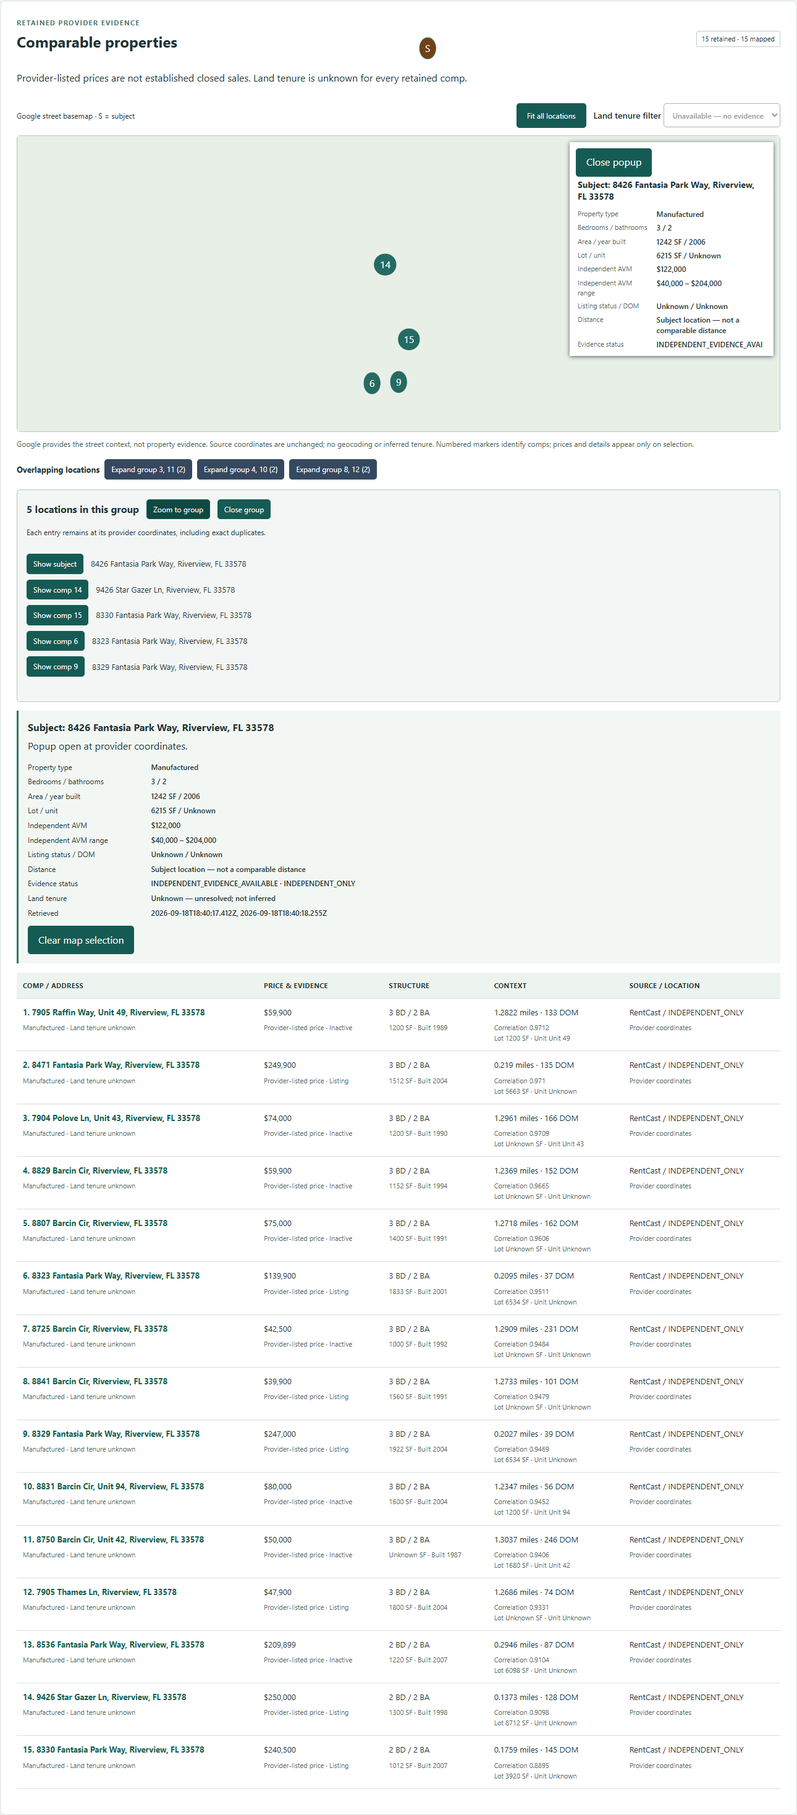
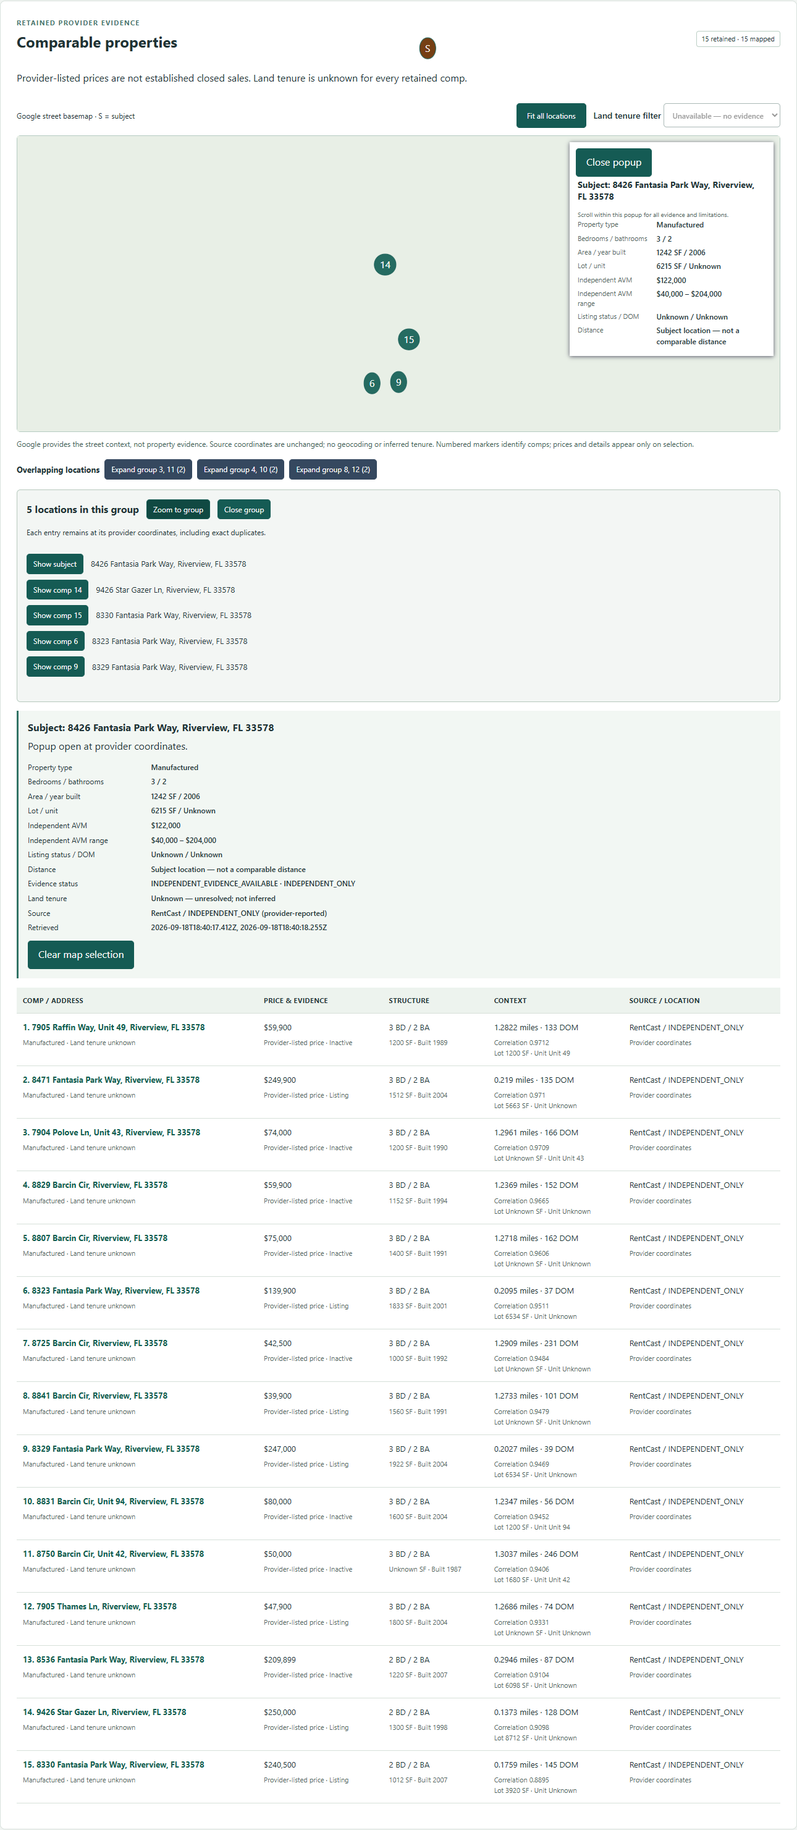
Initial Update for Web App 1

diff --git a/scripts/qa-maps.js b/scripts/qa-maps.js
@@ -26,6 +26,7 @@ async function scenario(name,{width=1366,network='mock',noTiles=false,missing=fa
     m.comps[0].address='<img src=x onerror="window.__injected=true">';
     await page.route(`${app.url}/api/fixture`,route=>route.fulfill({contentType:'application/json',body:JSON.stringify({model:m,sessionId:'qa'})}));
   }
+  if(network==='missing')await page.route(`${app.url}/api/maps/config`,route=>route.fulfill({contentType:'application/json',body:JSON.stringify({configured:false,reason:'Browser key not configured.'})}));
   try {
     await page.goto(app.url);await page.getByRole('button',{name:'Florida Portfolio / Fantasia',exact:true}).click();
     const engine=network==='mock'&&!noTiles?'STREET':'OFFLINE_FALLBACK';
@@ -38,10 +39,12 @@ async function scenario(name,{width=1366,network='mock',noTiles=false,missing=fa
       const originalPositions=await page.evaluate(()=>window.__mapTestInstances.at(-1).markers.filter(m=>!m.title.startsWith('Expand ')).map(m=>m.position));
       await page.locator('[data-comp-row="comp-2"] button').click();await page.locator('[data-map-popup="comp-2"]').waitFor();
       assert.match(await page.locator('[data-map-popup="comp-2"]').innerText(),/Days on market/);assert.match(await page.locator('[data-map-popup="comp-2"]').innerText(),/Land tenure unknown/);
+      assert.equal(await page.locator('[data-map-popup="comp-2"]').evaluate(el=>el.scrollWidth<=el.clientWidth),true,'Popup text must wrap without horizontal clipping');
       assert.equal(await page.locator('[data-comp-row="comp-2"] button').getAttribute('aria-pressed'),'true');
       await page.getByRole('button',{name:'Close popup',exact:true}).click();assert.equal(await page.locator('[data-comp-row="comp-2"] button').getAttribute('aria-pressed'),'false');
       await page.getByRole('button',{name:/^Subject: 8426/}).click();await page.locator('[data-map-popup="subject"]').waitFor();assert.match(await page.locator('[data-map-popup="subject"]').innerText(),/\$122,000/);
       await page.getByRole('button',{name:'Close popup',exact:true}).click();
+      await page.locator('[data-comp-row="comp-2"] button').click();await page.getByRole('button',{name:'Close popup',exact:true}).focus();await page.keyboard.press('Escape');assert.equal(await page.locator('[data-comp-row="comp-2"] button').getAttribute('aria-pressed'),'false');
       await page.locator('.map-overlaps button').first().click();await page.locator('.map-overlap-roster').waitFor();
       await page.locator('.map-overlap-roster li button').first().click();assert.equal(await page.locator('[data-map-popup]').count(),1);
       await page.getByRole('button',{name:'Zoom to group',exact:true}).click();
@@ -52,6 +55,7 @@ async function scenario(name,{width=1366,network='mock',noTiles=false,missing=fa
       }
       assert.equal(requests.length,1,'No repeated Maps API load on selection or rerender');
       await page.locator('#comps').screenshot({path:resolve(`${root}/${name}.png`)});
+      await page.locator('.comp-map').screenshot({path:resolve(`${root}/${name}-popup.png`)});
       // A real browser offline transition must preserve selected evidence and all comps.
       await page.locator('[data-comp-row="comp-2"] button').click();await context.setOffline(true);
       await page.locator('[data-map-engine="OFFLINE_FALLBACK"]').waitFor();await page.locator('[data-map-popup="comp-2"]').waitFor();
@@ -63,8 +67,10 @@ async function scenario(name,{width=1366,network='mock',noTiles=false,missing=fa
       await page.locator('[data-comp-row="comp-2"] button').click();await page.locator('[data-map-popup="comp-2"]').waitFor();
       assert.match(await page.locator('[data-map-popup="comp-2"]').innerText(),/Provider status/);
       await page.locator('.comp-pin').filter({hasText:/^3$/}).focus();await page.keyboard.press('Enter');await page.locator('[data-map-popup="comp-3"]').waitFor();
+      assert.equal(await page.locator('[data-map-popup="comp-3"]').evaluate(el=>el.scrollWidth<=el.clientWidth),true);
       assert.equal(await page.locator('[data-comp-row="comp-3"] button').getAttribute('aria-pressed'),'true');
       await page.locator('#comps').screenshot({path:resolve(`${root}/${name}.png`)});
+      await page.locator('.comp-map').screenshot({path:resolve(`${root}/${name}-popup.png`)});
     }
     assert.equal(await page.locator('.price-label').count(),0,'No persistent price-label clutter');
     assert.equal(await page.evaluate(()=>document.documentElement.scrollWidth<=window.innerWidth),true);
@@ -78,5 +84,6 @@ try {
   await scenario('google-missing-duplicates',{width:390,missing:true});
   await scenario('offline-network',{network:'blocked'});await scenario('offline-auth-narrow',{width:390,network:'auth'});
   await scenario('offline-tile-timeout',{noTiles:true});
+  await scenario('offline-missing-key',{network:'missing',width:390});
   await writeJson('data/validation/map-update-qa.json',{at:new Date().toISOString(),results,preservation:await preservation(),liveProviderCalls:0,liveBasemapVerified:false,note:'Google contract-double tests plus real Leaflet fallback. Live Google map requires an authorized browser key; no Google tiles or RentCast calls consumed.'});
 }finally{await instance.close();await app.close();}

diff --git a/apps/web/src/features/comps-map/map.css b/apps/web/src/features/comps-map/map.css
@@ -1,1 +1,1 @@
-#comps .map-note{font-size:12px;color:#415d55;margin:10px 0}#comps .comp-map{height:480px}#comps .map-toolbar [role=status]{flex:1;min-width:180px}#comps .map-evidence-popup{font:12px/1.45 'Segoe UI',Arial,sans-serif;color:#203335;max-width:310px;max-height:280px;overflow-y:auto;overflow-wrap:anywhere;margin:0;padding:3px}#comps .map-evidence-popup h3{font-size:14px;line-height:1.4;margin:0 0 10px}#comps .map-evidence-popup dl{display:grid;grid-template-columns:minmax(80px,1fr) minmax(0,1.5fr);gap:5px 10px;margin:0}#comps .map-evidence-popup dt{text-transform:none;color:#53675e;font-size:11px}#comps .map-evidence-popup dd{font-weight:500;margin:0}#comps .map-evidence-popup p{font-size:11px;border-top:1px solid #cbd7cf;padding-top:8px;margin:10px 0 0}#comps .map-selection-facts{grid-template-columns:minmax(110px,1fr) minmax(0,3fr);font-size:12px;gap:5px 16px;max-width:750px;overflow-wrap:anywhere}#comps .map-selection-facts dt{text-transform:none}#comps .map-overlaps{display:flex;flex-wrap:wrap;align-items:center;gap:8px;margin:16px 0}#comps .map-overlaps strong{font-size:13px}#comps .map-overlaps button{font-size:12px;padding:6px 10px;background:#35485f;border-color:#35485f}#comps .overlap-pin{display:flex;align-items:center;justify-content:center;border:3px solid white;border-radius:50%;background:#35485f;color:white;font-size:12px;font-weight:bold;box-shadow:0 1px 5px #38534a}#comps .subject-pin.selected{outline:4px solid #d69a42}#comps .map-overlap-roster{border:1px solid #b6c8bd;border-radius:6px;padding:15px;background:#f3f6f4}#comps .map-roster-heading{display:flex;align-items:center;gap:12px;flex-wrap:wrap}#comps .map-overlap-roster button{font-size:12px;padding:6px 10px}#comps .map-overlap-roster ul{list-style:none;padding:0;max-height:240px;overflow-y:auto}#comps .map-overlap-roster li{display:flex;gap:12px;align-items:center;font-size:13px;overflow-wrap:anywhere}#comps .map-overlap-roster li button{flex-shrink:0}#comps .map-overlap-roster p{font-size:12px}#comps .gm-style-iw button{min-width:30px}#comps .leaflet-popup-content{margin:14px;max-width:calc(100vw - 100px)}@media(max-width:750px){#comps .comp-map{height:400px}#comps .map-toolbar{align-items:stretch}#comps .map-toolbar [role=status]{flex-basis:100%}#comps .map-evidence-popup{max-height:225px;max-width:260px}#comps .map-selection-facts{grid-template-columns:1fr 1.4fr}#comps .map-overlap-roster li{align-items:flex-start}#comps .map-roster-heading button{flex:1}}
+#comps .map-note{font-size:12px;color:#415d55;margin:10px 0}#comps .comp-map{height:480px}#comps .map-toolbar [role=status]{flex:1;min-width:180px}#comps .map-evidence-popup{font:12px/1.45 'Segoe UI',Arial,sans-serif;color:#203335;max-width:310px;max-height:280px;overflow-y:auto;overflow-wrap:anywhere;margin:0;padding:3px}#comps .map-evidence-popup h3{font-size:14px;line-height:1.4;margin:0 0 10px}#comps .map-evidence-popup dl{display:grid;grid-template-columns:minmax(80px,1fr) minmax(0,1.5fr);gap:5px 10px;margin:0}#comps .map-evidence-popup dt{text-transform:none;color:#53675e;font-size:11px}#comps .map-evidence-popup dd{font-weight:500;margin:0;min-width:0;overflow-wrap:anywhere;white-space:normal}#comps .map-evidence-popup p{font-size:11px;border-top:1px solid #cbd7cf;padding-top:8px;margin:10px 0 0}#comps .map-selection-facts{grid-template-columns:minmax(110px,1fr) minmax(0,3fr);font-size:12px;gap:5px 16px;max-width:750px;overflow-wrap:anywhere}#comps .map-selection-facts dt{text-transform:none}#comps .map-overlaps{display:flex;flex-wrap:wrap;align-items:center;gap:8px;margin:16px 0}#comps .map-overlaps strong{font-size:13px}#comps .map-overlaps button{font-size:12px;padding:6px 10px;background:#35485f;border-color:#35485f}#comps .overlap-pin{display:flex;align-items:center;justify-content:center;border:3px solid white;border-radius:50%;background:#35485f;color:white;font-size:12px;font-weight:bold;box-shadow:0 1px 5px #38534a}#comps .subject-pin.selected{outline:4px solid #d69a42}#comps .map-overlap-roster{border:1px solid #b6c8bd;border-radius:6px;padding:15px;background:#f3f6f4}#comps .map-roster-heading{display:flex;align-items:center;gap:12px;flex-wrap:wrap}#comps .map-overlap-roster button{font-size:12px;padding:6px 10px}#comps .map-overlap-roster ul{list-style:none;padding:0;max-height:240px;overflow-y:auto}#comps .map-overlap-roster li{display:flex;gap:12px;align-items:center;font-size:13px;overflow-wrap:anywhere}#comps .map-overlap-roster li button{flex-shrink:0}#comps .map-overlap-roster p{font-size:12px}#comps .gm-style-iw button{min-width:30px}#comps .leaflet-popup-content{margin:14px;max-width:calc(100vw - 100px)}@media(max-width:750px){#comps .comp-map{height:400px}#comps .map-toolbar{align-items:stretch}#comps .map-toolbar [role=status]{flex-basis:100%}#comps .map-evidence-popup{max-height:225px;max-width:260px}#comps .map-selection-facts{grid-template-columns:1fr 1.4fr}#comps .map-overlap-roster li{align-items:flex-start}#comps .map-roster-heading button{flex:1}}

diff --git a/apps/web/src/features/comps-map/offlineMap.js b/apps/web/src/features/comps-map/offlineMap.js
@@ -4,14 +4,16 @@ import {overlapGroups,popupContent} from './mapData.js';
 
 export function offlineMap(host,entries,{onSelect,onGroups,onExpand}) {
   const located=entries.filter(e=>e.position),markers=new Map();
-  const map=L.map(host,{scrollWheelZoom:false,zoomAnimation:false,fadeAnimation:false,markerZoomAnimation:false});
+  const map=L.map(host,{scrollWheelZoom:false,zoomAnimation:false,fadeAnimation:false,markerZoomAnimation:false}).setView([located[0].position.lat,located[0].position.lng],13);
+  map.zoomControl.setPosition('bottomright');
   const points=located.map(e=>[e.position.lat,e.position.lng]);
   let selecting=false,disposed=false;
   const popup=L.popup({maxWidth:Math.min(340,host.clientWidth-48),maxHeight:260,autoPanPadding:[18,18]});
+  const labelNode=value=>{const node=document.createElement('span');node.textContent=String(value);return node;};
   const keyboard=(element,fn)=>{element.addEventListener('keydown',e=>{if(e.key==='Enter'||e.key===' '){e.preventDefault();e.stopPropagation();fn();}});};
   for(const entry of located){
     const marker=L.marker([entry.position.lat,entry.position.lng],{title:entry.title,keyboard:true,riseOnHover:true,zIndexOffset:entry.subject?800:0,
-      icon:L.divIcon({className:entry.subject?'subject-pin':'comp-pin',html:entry.label,iconSize:[entry.subject?30:27,entry.subject?30:27]})}).addTo(map);
+      icon:L.divIcon({className:entry.subject?'subject-pin':'comp-pin',html:labelNode(entry.label),iconSize:[entry.subject?30:27,entry.subject?30:27]})}).addTo(map);
     marker.on('click',()=>onSelect(entry.id));marker.getElement().setAttribute('aria-label',`Select ${entry.title}`);keyboard(marker.getElement(),()=>onSelect(entry.id));markers.set(entry.id,marker);
   }
   map.on('popupclose',()=>{if(!selecting&&!disposed)onSelect(null);});
@@ -22,7 +24,7 @@ export function offlineMap(host,entries,{onSelect,onGroups,onExpand}) {
     count=0;for(let y=Math.floor(b.getSouth()/step)*step;y<b.getNorth()&&count++<100;y+=step)L.polyline([[y,b.getWest()],[y,b.getEast()]],{color:'#bdd2d0',weight:1,interactive:false}).addTo(grid);
     const groups=overlapGroups(located,p=>map.latLngToContainerPoint([p.lat,p.lng]));
     for(const group of groups){const marker=L.marker([group.position.lat,group.position.lng],{title:`Expand ${group.members.length} overlapping locations`,keyboard:true,zIndexOffset:500,
-      icon:L.divIcon({className:'overlap-pin',html:String(group.members.length),iconSize:[34,34]})}).addTo(clusters);
+      icon:L.divIcon({className:'overlap-pin',html:labelNode(group.members.length),iconSize:[34,34]})}).addTo(clusters);
       marker.on('click',()=>onExpand(group));keyboard(marker.getElement(),()=>onExpand(group));}
     onGroups(groups);
   };

diff --git a/apps/web/src/features/comps-map/mapData.js b/apps/web/src/features/comps-map/mapData.js
@@ -11,6 +11,7 @@ export function mapEntries(model) {
       ...model.metrics.filter(m=>/Purchase|Resale|Break-Even/.test(m.label)).map(m=>[m.label,`${m.display} · ${m.status}`]),
       ['Listing status / DOM','Unknown / Unknown'],['Distance','Subject location — not a comparable distance'],
       ['Evidence status',`${model.resolutionStatus} · ${model.valuationStatus}`],['Land tenure','Unknown — unresolved; not inferred'],
+      ['Source',model.provenance.some(p=>p.source==='RentCast')?'RentCast / INDEPENDENT_ONLY (provider-reported)':'Unknown'],
       ['Retrieved',model.cache.retrievedAt.join(', ')||'Not available']]};
   return [subject,...model.comps.map(c=>({id:c.id,label:String(c.number),title:`Comp ${c.number}: ${c.address}`,address:c.address,subject:false,
     position:located(c)?{lat:c.latitude,lng:c.longitude}:null,
@@ -36,6 +37,7 @@ export function overlapGroups(entries,project,radius=32) {
 export function popupContent(entry) {
   const root=document.createElement('article');root.className='map-evidence-popup';root.dataset.mapPopup=entry.id;
   const heading=document.createElement('h3');heading.textContent=entry.title;root.append(heading);
+  const hint=document.createElement('small');hint.textContent='Scroll within this popup for all evidence and limitations.';root.append(hint);
   const list=document.createElement('dl');
   for(const [label,value] of entry.facts){const term=document.createElement('dt'),detail=document.createElement('dd');term.textContent=label;detail.textContent=value;list.append(term,detail);}
   root.append(list);const note=document.createElement('p');note.textContent=entry.subject?'Independent estimates are evidence, not verified resale proceeds.':'Provider-listed price is not an established closed sale.';root.append(note);

diff --git a/apps/web/src/features/comps-map/googleMap.js b/apps/web/src/features/comps-map/googleMap.js
@@ -15,6 +15,8 @@ export function googleMap(host,maps,entries,{onSelect,onGroups,onExpand,onReady,
     listeners.push(marker.addListener('click',()=>onSelect(entry.id)));markers.set(entry.id,marker);
   }
   listeners.push(info.addListener('closeclick',()=>onSelect(null)));
+  const escape=event=>{if(event.key==='Escape'&&selected){event.preventDefault();onSelect(null);}};
+  host.addEventListener('keydown',escape,true);
   const regroup=()=>{
     if(disposed)return;
     const projection=map.getProjection();if(!projection)return;
@@ -43,6 +45,6 @@ export function googleMap(host,maps,entries,{onSelect,onGroups,onExpand,onReady,
       info.setContent(popupContent(entry));info.setOptions({ariaLabel:entry.title});info.open({map,anchor:markers.get(id),shouldFocus:false});
     },
     zoomGroup(group){map.fitBounds(bounds(group.members),70);if(group.members.every(e=>e.position.lat===group.position.lat&&e.position.lng===group.position.lng))map.setZoom(Math.min(20,(map.getZoom()??15)+2));},
-    destroy(){disposed=true;clearTimeout(paintTimer);resize.disconnect();info.close();for(const listener of listeners)listener.remove();for(const marker of [...markers.values(),...clusters]){maps.event.clearInstanceListeners(marker);marker.setMap(null);}maps.event.clearInstanceListeners(map);host.replaceChildren();}
+    destroy(){disposed=true;clearTimeout(paintTimer);resize.disconnect();host.removeEventListener('keydown',escape,true);info.close();for(const listener of listeners)listener.remove();for(const marker of [...markers.values(),...clusters]){maps.event.clearInstanceListeners(marker);marker.setMap(null);}maps.event.clearInstanceListeners(map);host.replaceChildren();}
   };
 }

diff --git a/docs/MAP_STREET_BASEMAP_UPDATE.md b/docs/MAP_STREET_BASEMAP_UPDATE.md
@@ -1,0 +1,75 @@
+# Street basemap and evidence popup update
+
+Implemented 2026-09-18. Scope: comparable map, map configuration/security boundary, map tests and documentation only. Underwriting, analysis, PDF generation, other workbench panels and original evidence were not changed.
+
+## Reference inspected first
+
+Read Home Advisor's `apps/web/components/PropertyLocationMap.js` and `apps/web/app/properties/[propertyId]/page.js` before choosing the implementation. The reference uses Google Maps JavaScript, a shared script-loader promise/callback, `gm_authFailure`, raster street mapping, subject/numbered markers, `InfoWindow`, bounds fitting and resize handling. Its page supplies an explicitly public browser key.
+
+Adapted those patterns locally. No new mapping provider, map dependency, Home Advisor import, Home Advisor configuration read at runtime or Home Advisor modification. Did not port its eight-comp cap, automatic geocoding, unchecked HTML interpolation, or coordinate offsets. This update supersedes the original Sprint 3 coordinate-grid-only map decision; it does not change the PDF's map policy.
+
+## Behavior
+
+- Google Maps `roadmap` is the primary renderer. The coordinate grid is instantiated only when the street basemap is unavailable: offline browser, blocked/unreachable loader, missing/invalid configuration, authorization failure, or initial tile timeout. Missing coordinates produce an explicit no-location state, not invented geography.
+- All 15 Fantasia comps and the subject retain their exact provider coordinates. Missing-coordinate comps stay in the table and accessible evidence detail.
+- Persistent comp markers contain numbers only, not persistent price labels. The subject has a distinct marker and priority above group badges.
+- Subject and comp popups contain property type, bedrooms/bathrooms, area/year, lot/unit, independent AVM/range or provider-listed price/status, distance, DOM, evidence status, retrieval timestamps and unresolved land tenure. Existing deal metrics appear only when already supplied by the shared model. No financial formulas added.
+- Unknown fields remain Unknown. Inactive/listing is not relabeled as a closed sale. Google supplies street context, not property evidence. No geocoding, tenure inference or new RentCast call occurs.
+- Row, marker, popup and expanded-group selection share a single selection ID. Closing a popup or clearing selection clears the highlight; offline transitions preserve the selected evidence. Escape closes Google popup selection; keyboard activation works in the fallback.
+- Overlap detection uses projected screen positions. Group badges and expandable rosters expose every nearby/coincident location; zoom-to-group separates distinct locations where possible. Exact duplicates remain individually selectable in the roster. Neither group expansion nor zoom rewrites marker positions/source coordinates.
+- Popups scroll internally on narrow screens; the full selected evidence is also readable below the map. Fallback zoom controls sit below the popup area.
+- Google loading is shared across rerenders. Fallback stays in place after reconnection until explicit **Retry street basemap**, avoiding repeat-load loops.
+
+## Configuration and security
+
+The project currently has **no configured Google Maps browser key**. The implementation and offline behavior are tested; **live Google street tiles have not been verified**. Without the key, the application truthfully displays the unavailable-map fallback.
+
+Add the real value only to this project's ignored `.env`:
+
+```dotenv
+GOOGLE_MAPS_BROWSER_KEY=your_authorized_browser_key
+```
+
+Use an enabled/billed Maps JavaScript API project and restrict the key to that API and the approved browser referrer, including `http://127.0.0.1:4173/*`. This is a browser-visible key, not a private server key. The explicit `NEXT_PUBLIC_GOOGLE_MAPS_API_KEY` name is also accepted for compatibility with the reference pattern; no generic/server-key fallback exists. The real key was not copied from Home Advisor or printed in logs.
+
+Official setup/security references: [Google Maps JavaScript key setup](https://developers.google.com/maps/documentation/javascript/get-api-key) and [Google Maps key restrictions](https://developers.google.com/maps/api-security-best-practices).
+
+Only the allowlisted browser configuration is returned by `/api/maps/config`. RentCast, generic provider and Google server keys are never returned; a browser-key value matching a known private key is rejected. Existing loopback Host/Origin checks and environment-path blocks remain intact. The browser key is runtime configuration, not bundled by Vite.
+
+The server's [Google Maps CSP allowlist](https://developers.google.com/maps/documentation/javascript/content-security-policy) permits the required Google script, image, font, connection and worker origins. Google script evaluation is allowed; inline scripts remain disallowed. No wildcard all-host script policy was introduced. Map popup content is constructed with DOM text nodes, including addresses and marker labels.
+
+After configuration, reload the workbench (or choose Retry if only the key was previously absent):
+
+```powershell
+Set-Location 'C:\Users\sjroy\Source\PropertyIntelligence'
+npm run web:dev
+```
+
+Open `http://127.0.0.1:4173`, load Fantasia, and confirm the map status says **Google street basemap** with real streets visible. A maps-script request is made when a mapped fixture loads; the property-analysis search elsewhere remains cache-only. The unchanged search panel's earlier blanket “no remote tiles” copy is superseded by the map's explicit status/context notice; other workbench sections were left untouched as requested.
+
+## Tests and QA
+
+```powershell
+npm test
+npm run web:build
+npm run map:test
+npm run web:test
+```
+
+- Unit tests: **54 passed**, including map configuration isolation, rich evidence mapping, exact/transitive overlaps, null-versus-zero and coordinate immutability.
+- Build: PASS.
+- Map browser QA: **7 scenarios passed**: Google adapter desktop; narrow 390px; missing coordinates/exact duplicates; blocked network; authorization failure; tile timeout; missing key. Tested selection, popup close/Escape, responsive wrapping, fallback transitions/retry, one loader per session, no permanent price labels, and no browser/CSP errors.
+- Existing workbench browser regressions and development-server smoke: PASS. Original financial figures and evidence gates still reconcile.
+- **Google-path tests use a clearly identified API contract double**, not real Google tiles or quota. The fallback runs real Leaflet in Chrome. No live-basemap acceptance claim is made until the authorized key is configured and checked.
+- Reviewed desktop/narrow popup screenshots. Moved fallback zoom controls out of the popup heading area and verified no horizontal popup clipping. Internal scrolling is intentional and explicitly labeled.
+- Protected original evidence: **36/36 hashes unchanged**. Non-map implementation: **21/21 source-file hashes unchanged**, covering underwriting, analysis, reports, shared model/search, App, panels and deal form. Baseline: `data/validation/map-update-protected-sources.json`.
+
+Machine result: `data/validation/map-update-qa.json`. Screenshots: `data/validation/map-update/`, with `*-popup.png` for focused review. The Google contract-double screenshots test layout only and are not screenshots of an actual Google street basemap. Earlier `*-failure.png` files, if present, are retained debugging artifacts, not passing acceptance evidence.
+
+## Changed surface
+
+Map feature: `Comps.jsx`, `ComparableMap.jsx`, `mapData.js`, `googleLoader.js`, `googleMap.js`, `offlineMap.js`, `map.css` under `apps/web/src/features/comps-map/`.
+
+Supporting boundary/tests: `src/workbench/mapConfig.js`, map-only additions to `src/workbench/server.js`, `.env.example`, `.gitignore`, `package.json` (`map:test`), `tests/maps.test.js`, `scripts/qa-maps.js`, `scripts/fixtures/google-maps-browser.js`, map readiness/isolation adjustments to `scripts/qa-ui.js`, and generated QA records. No new npm dependency.
+
+Remaining external prerequisite: supply the restricted browser key and verify the live street map. No underwriting, other-panel redesign, PDF change, deployment or authentication work was performed.
